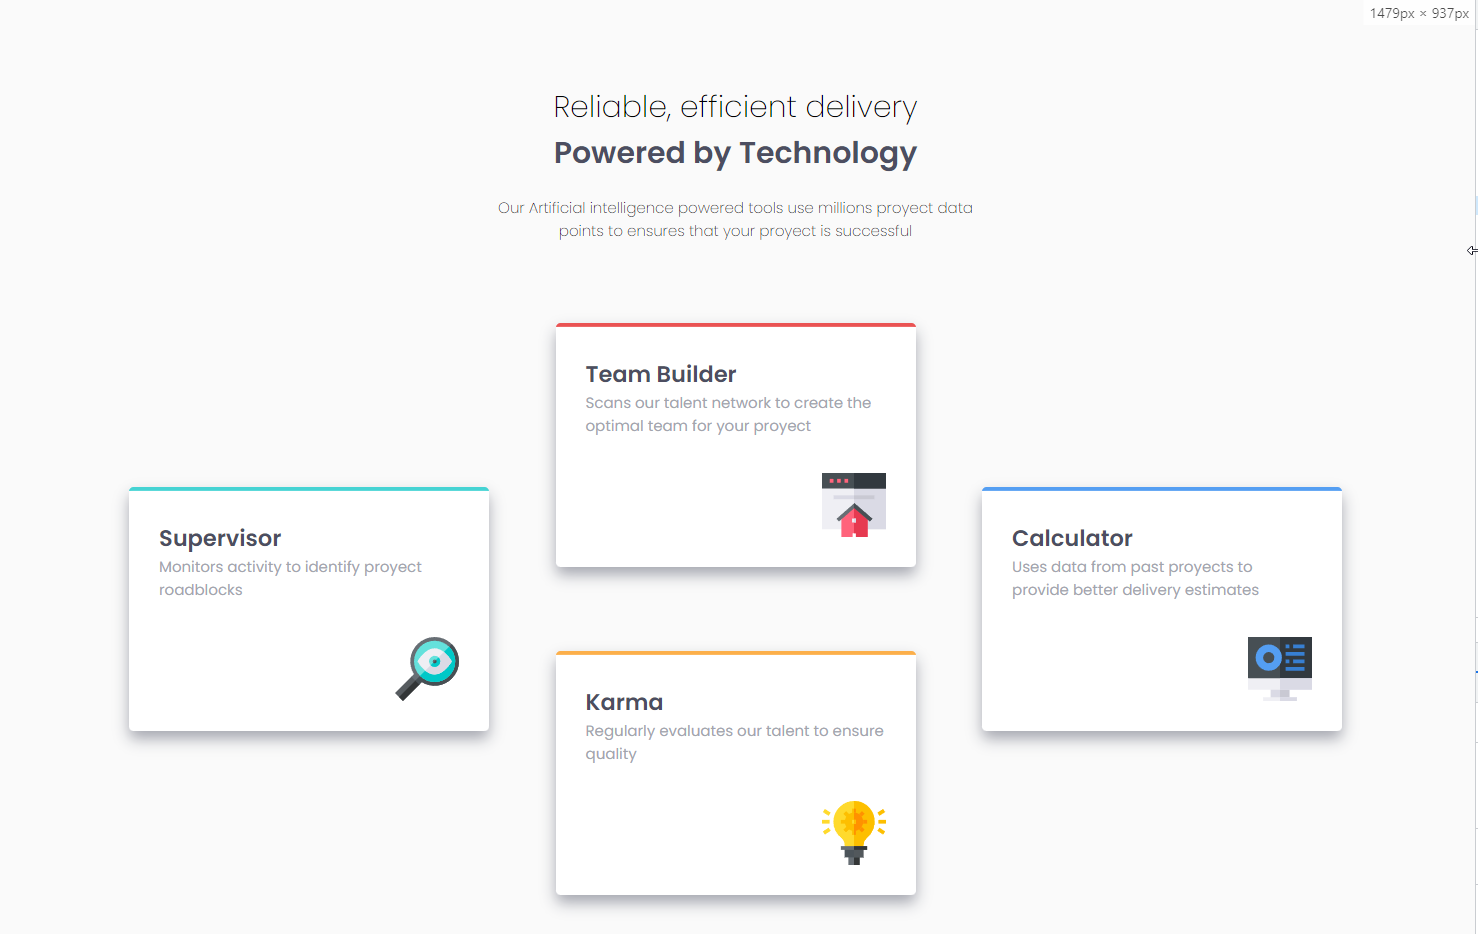
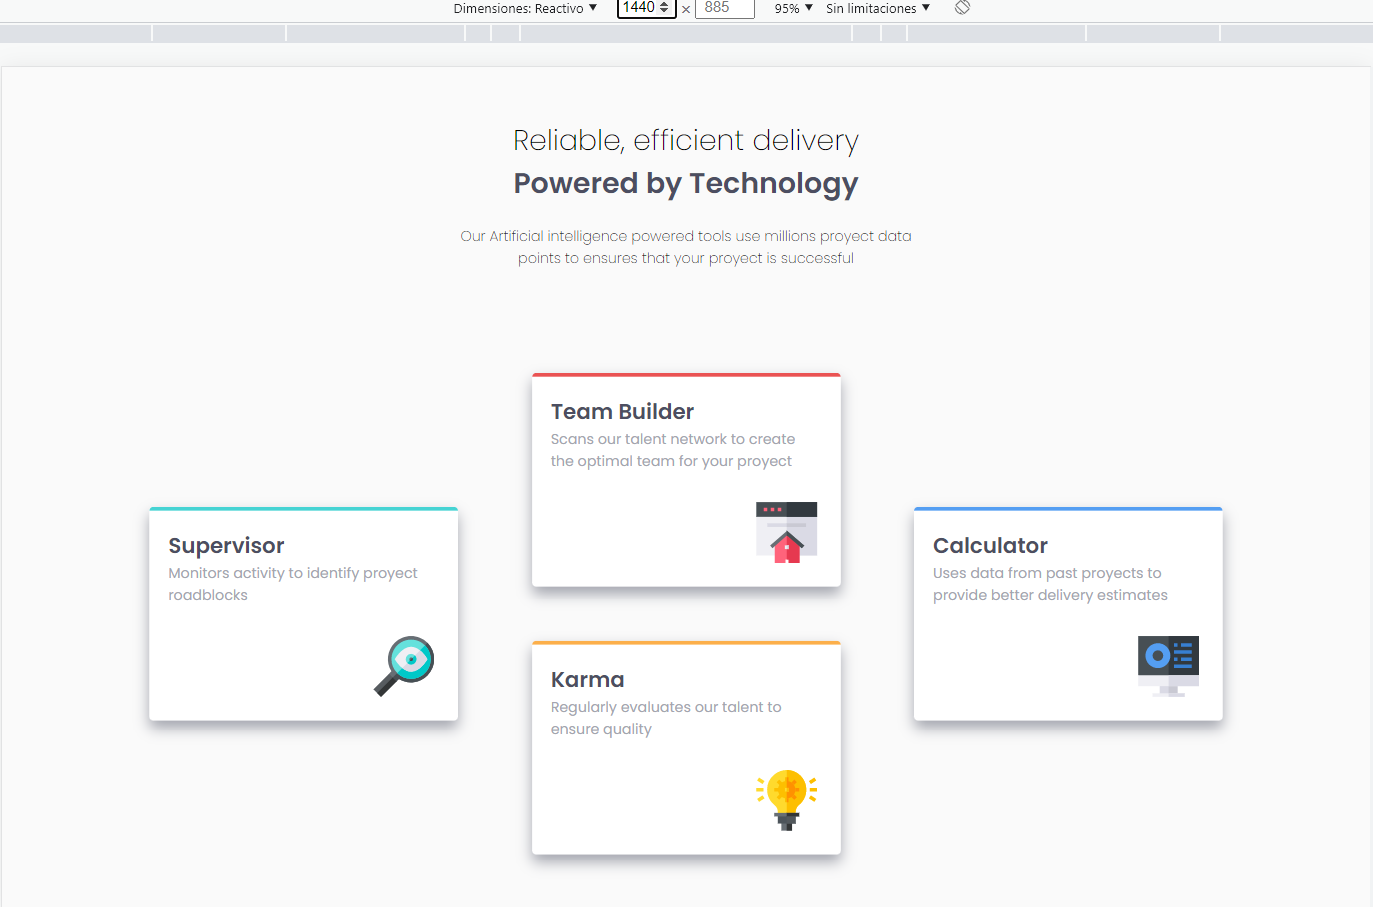
upgrade styles rwd

diff --git a/css/style.css b/css/style.css
@@ -11,6 +11,8 @@
 }
 *{
     margin:0;
+    padding: 0;
+	border: 0;
 }
 body{
     /* Typography Body  */
@@ -38,7 +40,6 @@ body{
     flex-direction: column;
     align-items: center;
     justify-content: center;
-    margin-top: 45px;
 }
 .headerPriP{
     max-width: 500px;
@@ -59,7 +60,7 @@ body{
     display:flex;
     flex-direction: column;
     align-items: center;
-    justify-content: space-around;
+    justify-content: space-evenly;
 }
 #section2{
     grid-area: section2;
@@ -67,11 +68,12 @@ body{
     align-items: center;
 }
 .article{
+    box-sizing: border-box;
     background-color: #FFFFFF;
     border-radius: 0.3em;
-    height: 180px;
-    max-width: 300px;
-    padding: 30px;
+    height: 225px;
+    width: 325px;
+    padding: 20px;
     position: relative;
     box-shadow: 0px 8px 15px var(--Grayish-Blue);
     color: var(--Grayish-Blue);
@@ -81,8 +83,8 @@ body{
 }
 .article img{
     position: absolute;
-    right: 30px;
-    bottom: 30px;
+    right: 25px;
+    bottom: 25px;
 }
 #supervisorArticle{
     border-top: 4px solid var(--Cyan);
@@ -128,18 +130,18 @@ body{
 }
 @media (max-width:520px){
     .main{
-        grid-template-rows: 50vh auto auto auto;
+        grid-template-rows: 40vh auto auto auto;
     }
     .article{
-        height: 180px;
-        max-width: 250px;
+        height: 220px;
+        width: 300px;
     }
     .headerPriP {
-        max-width: 395px;
-        font-size: 28px;
+        max-width: 300px;
+        font-size: 24px;
     }
     .headerSegP {
-        max-width: 290px;
-        font-size: 14px;
+        max-width: 300px;
+        font-size: 15px;
     }
 }
